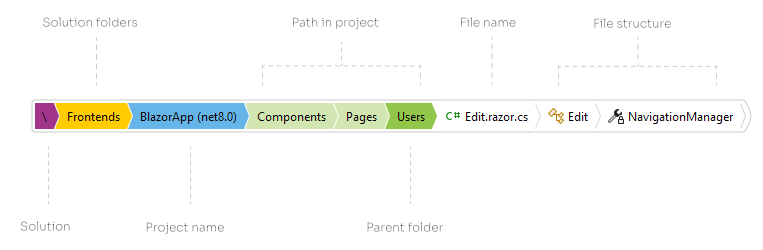
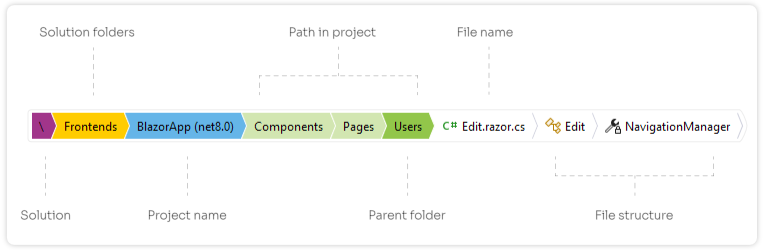
Update readme and presentation assets

diff --git a/assets/marketplace.md b/assets/marketplace.md
@@ -1,0 +1,87 @@
+**Editor Bar** is a Visual Studio 2022 extension designed to simplify your coding workflow by providing clear and intuitive breadcrumbs for effortless navigation.
+
+The extension shows the current file path and project name, enabling quick identification of files with similar or identical names (e.g. `launchSettings.json` or  `/Pages/Users/Edit.razor` vs `/Pages/Roles/Edit.razor`). 
+
+It now also displays breadcrumbs for the internal structure of your code, allowing easy navigation to types, methods, and members in C# and VB.NET files, or nodes in XML documents. Additional formats and features will be supported in future updates.
+
+<div align="center">
+
+![breadcrumbs.png](breadcrumbs.png)
+
+</div>
+
+## Features
+- **Breadcrumb Navigation:** Highlights key elements of the file location and current caret position in the file:
+  - Solution and solution folders
+  - Project name
+  - Project folders
+  - Parent folder name
+  - File name
+  - File structure (types, members, nodes, ...)
+    - C#
+    - VB.NET
+    - XML
+
+- **Quick Actions:**
+  - Copy full or relative file path to Clipboard.
+  - Open file in an custom or default external editor.
+  - Open file location in Windows Explorer.
+  - Locate the item in Solution Explorer.
+  - Switch active target framework for IntelliSense (in multi-targeting projects).
+
+- **Customizable Options:**
+  - Select what to display in the breadcrumbs bar.
+  - Adjust size, colors, and quick-actions to suit your preferences.
+
+- **Seamless File Access**:
+  - Quickly open the file's location in Windows Explorer or in an external editor of your choice, enhancing file management efficiency.
+
+## Visual Preview
+![screenshot__1.png](screenshot__1.png)
+
+## Changes
+
+### 2.0
+* Added: File structure breadcrumbs (code structure for C#, VB.NET and XML).
+    - Drop-drop menu with relevant child items (types in the file, members fields in types).
+    - Displays useful secondary information (e.g., method parameters, property types, constant value, xml node id or name).
+* Added: Project segment can now display and switch target framework (in multi-targeted projects).
+* Added: Keyboard shortcuts to focus specific segments (project, file, etc.).
+* Added: "Locate in Soltion Explorer" context menu command for relevant segments.
+* Added: "Copy Path" and "Open Containing Folder" context menu command for project and folder segments.
+* Added: Automatic contrast fallback: when text contrast is insufficient, its color is automatically adjusted.
+* Changed: Improved performance and reduced memory usage.
+* Changed: Updated options page.
+* Changed: File path label is now hidden by default.
+
+### v1.1.0
+* Added: Parent folder segment.
+* Added: In-project path segments.
+* Added: Bar's background color settings.
+* Added: Additional formats for the file name label (e.g., only the file name or the path relative to the parent project).
+* Added: Refined control over where the Editor Bar is displayed (e.g., in annotate/blame views, file compare views, temporary files, and non-editable documents).
+* Added: Support for non-solution roots (e.g., file system, network locations, files in solution folders not included in the solution, temporary folders).
+* Changed: Switched to using the Visual Studio context menu instead of the .NET Framework.
+* Changed: Improved the color selection palette for breadcrumb bar segments.
+* Changed: Toggle Editor Bar command is now checked if the Editor Bar is enabled.
+* Fixes: Bar button's icon colors now correctly matches the bar background.
+
+### v1.0.4
+* Added: Ability to open the current file in an external editor.
+* Added: A Visual Studio command to toggle the Editor Bar on and off (menu View / Editor Bar and button on Text Editor toolbar). You can also associate a keyboard shortcut with it.
+* Added: Options to customize quick actions (double-click and CTRL + double-click).
+* Changed: Replaced the property grid options page with a custom dialog page.
+* Changed: Replaced the extension icon with a new one.
+* Changed: New command icons consistent with Visual Studio UI.
+
+
+### v1.0.3
+* Added: Option to toggle the bar on and off from settings.
+* Added: Ability to customize the colors of the elements.
+* Added: Ability to hide elements of the bar.
+* Added: Additional Compact mode; the bar is smaller and allows more space for your code.
+* Changed: Changes in settings are now applied immediately to opened documents.
+* Fixed: Misspelled category name in settings.
+
+### v1.0.2
+- Fixed: Editor bar was displayed in inappropriate text views. Now the display is limited to documents only.

diff --git a/README.md b/README.md
@@ -15,42 +15,56 @@
 
 ## Introduction
 
-**Editor Bar** is a Visual Studio 2022 extension crafted to streamline your coding workflow. It provides an intuitive breadcrumbs bar displaying the file path and current project name, ensuring effortless navigation and management of files, particularly those with identical names across different projects or folders within a solution.
+**Editor Bar** is a Visual Studio 2022 extension designed to simplify your coding workflow by providing clear and intuitive breadcrumbs for effortless navigation.
 
-This functionality addresses common challenges when editing files with similar names, such as `launchSettings.json` across multiple projects or within the same project (e.g., `/Pages/Users/Edit.razor`, `/Pages/Roles/Edit.razor`). The breadcrumbs bar provides clear context, reducing confusion and improving navigation efficiency.
+The extension displays the current file path and project name, enabling quick identification of files with similar or identical names (like `launchSettings.json` in every project or `/Pages/Users/Edit.razor` vs `/Pages/Roles/Edit.razor`).
 
-## Features
+In supported files, it also displays breadcrumbs for symbols or nodes up to the cursor position. This works for C# and VB.NET files, as well as nodes in XML documents. Additional formats will be supported in future updates.
+
 
 <div align="center">
+
+![Drop-down menu](assets/dropdown.png)
+
 
 ![Breadcrumbs](assets/breadcrumbs.png)
 
 </div>
 
-- **Breadcrumb Navigation:** Highlights key elements of the file location and current caret position in the file:
-  - Solution folders
-  - Project name
-  - Project folders
-  - Parent folder name
-  - File name
-  - File structure (types, members, nodes, ...)
+## Features
 
-- **Customizable Options:**
+- **Breadcrumb Navigation** 
+  - Highlights key elements of the file location and for supported files a breadcrumb trail of the current file node or symbol up to the cursor position:
+      - Solution and solution folders
+      - Project
+      - Project folders
+      - Parent folder name
+      - File name
+      - File structure (types, members, nodes, ...)
+        - C#
+        - VB.NET
+        - XML
+
+- **Quick Actions**
+  - Copy full or relative file path to Clipboard.
+  - Open file in an custom or default external editor.
+  - Open file location in Windows Explorer.
+  - Locate the item in Solution Explorer.
+  - Switch active target framework for IntelliSense (in multi-targeting projects).
+
+- **Customizable Options**
   - Select what to display in the breadcrumbs bar.
   - Adjust size, colors, and quick-actions to suit your preferences.
 
-- **Quick Access Actions:**
-  - Copy full or relative file path to clipboard.
-  - Open file location in Windows Explorer or an external editor.
-
 - **Seamless Control**:
-  - Toggle the Editor Bar on and off using a toolbar icon or keyboard shortcut.
+  - Toggle the Editor Bar on and off using a toolbar icon or a keyboard shortcut.
 
 - **Additional Features:**
   - See [complete changelog](CHANGELOG.md) for more details.
 
 ## Screenshots
 
+![Extension Screenshot](assets/screenshot-dropdowns.png)
 ![Extension Screenshot](assets/screenshot.png)
 ![Extension Options Screenshop](assets/options.png)
 

diff --git a/CHANGELOG.md b/CHANGELOG.md
@@ -1,14 +1,14 @@
 # Change Log
 
 ## 2.0.0
-- [x] Added: File structure breadcrumbs (code structure for C#, VB.NET and XML).
-    - Drop-drop menu with relevant child items (types in the file, members fields in types).
-    - Displays useful secondary information (e.g., method parameters, property types, constant value, xml node id or name).
-- [x] Added: Project segment can now display and switch target framework (in multi-targeted projects).
+- [x] Added: File structure breadcrumbs (code structure for C#, VB.NET, and XML).
+    - Drop-down menu with relevant child items (types in the file, members and fields within types).
+    - Displays useful secondary information (e.g., method parameters, property types, constant values, XML node IDs or names).
+- [x] Added: Project segment can now display and switch target framework for IntelliSense (in multi-targeted projects).
 - [x] Added: Keyboard shortcuts to focus specific segments (project, file, etc.).
-- [x] Added: "Locate in Soltion Explorer" context menu command for relevant segments.
-- [x] Added: "Copy Path" and "Open Containing Folder" context menu command for project and folder segments.
-- [x] Added: Automatic contrast fallback: when text contrast is insufficient, its color is automatically adjusted.
+- [x] Added: "Locate in Solution Explorer" context menu command for relevant segments.
+- [x] Added: "Copy Path" and "Open Containing Folder" context menu commands for project and folder segments.
+- [x] Added: Automatic contrast fallback; when text contrast is insufficient, its color is automatically adjusted.
 - [x] Changed: Improved performance and reduced memory usage.
 - [x] Changed: Updated options page.
 - [x] Changed: File path label is now hidden by default.
